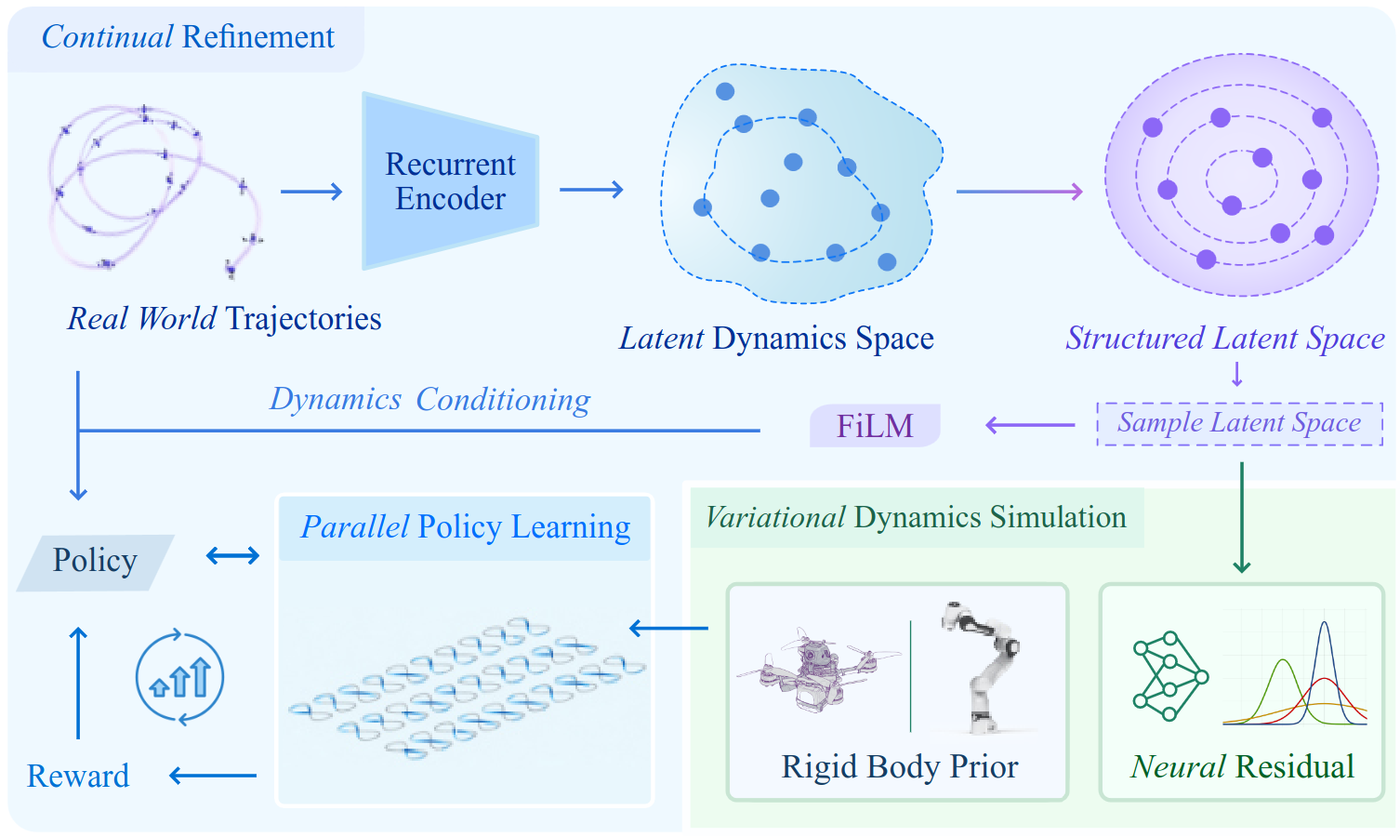
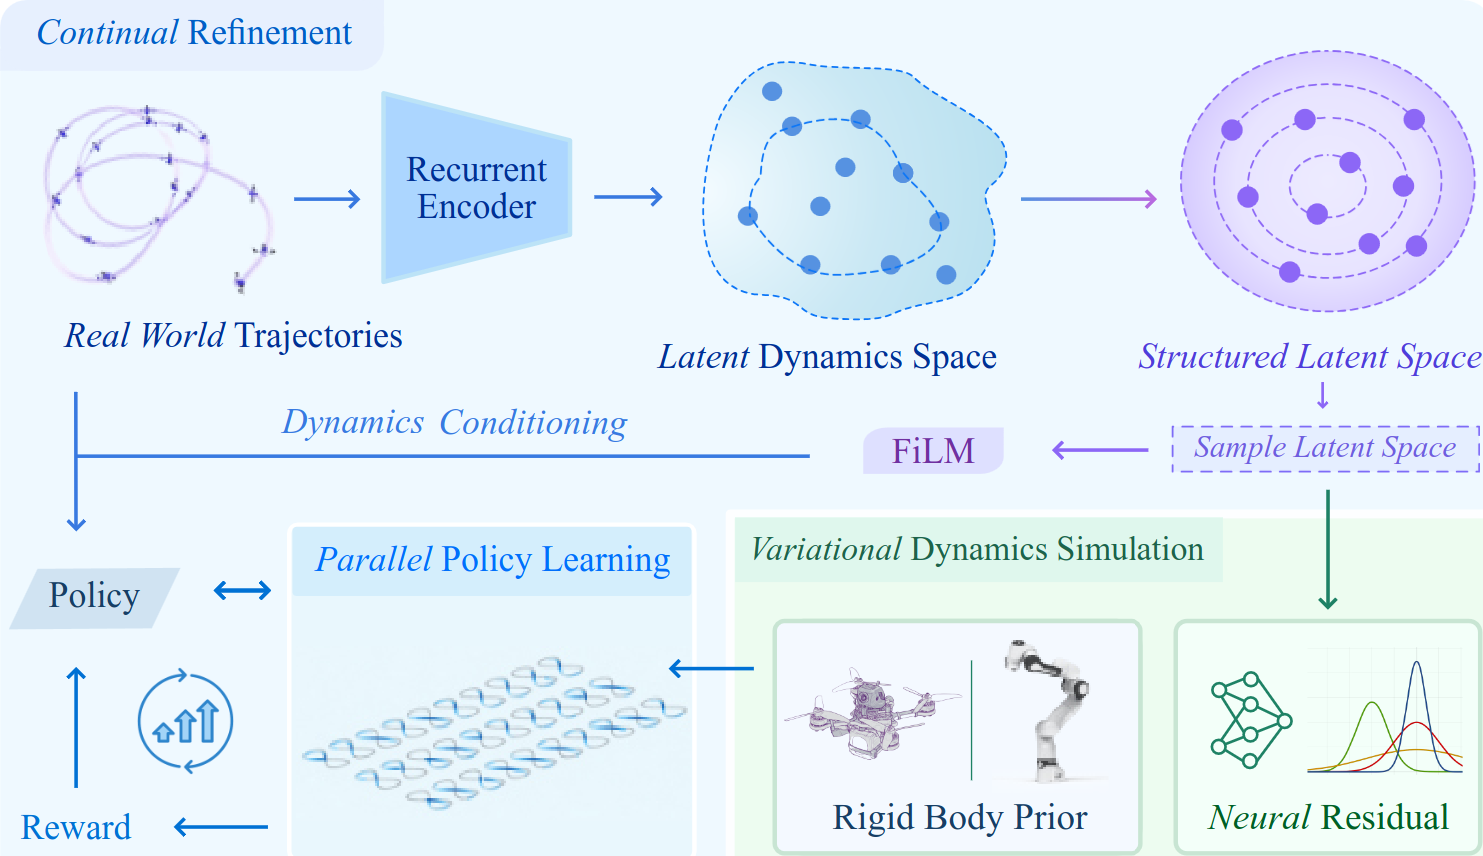
Bio wording, bold interests, trimmed figure, news links

diff --git a/index.html b/index.html
@@ -56,9 +56,10 @@
   .about p { margin: 0 0 14px; font-size: 19.5px; color: var(--ink-2); text-align: justify; hyphens: auto; -webkit-hyphens: auto; text-wrap: pretty; }
   .about p a { color: var(--gold); }
   .about p a:hover { text-decoration: underline; text-underline-offset: 3px; }
+  .about p b { font-weight: 600; color: var(--ink); }
 
   .pcard { background: var(--card); border: 1px solid var(--line); border-radius: 14px; padding: 16px 20px 16px 16px; margin-bottom: 12px; cursor: pointer; transition: transform .15s, box-shadow .15s, border-color .15s; display: grid; grid-template-columns: 212px 1fr; gap: 20px; align-items: start; }
-  .pcard .thumb { aspect-ratio: 16 / 10; border-radius: 10px; overflow: hidden; background: #fff; border: 1px solid var(--line); }
+  .pcard .thumb { aspect-ratio: 7 / 4; border-radius: 10px; overflow: hidden; background: #fff; border: 1px solid var(--line); }
   .pcard .thumb img { display: block; width: 100%; height: 100%; object-fit: cover; }
   .pcard .thumb.diagram img { object-fit: contain; padding: 4%; box-sizing: border-box; }
   :root[data-theme="dark"] .pcard .thumb.diagram { background: #f4f5f7; }
@@ -83,6 +84,8 @@
   .news li:last-child { border-bottom: 1px solid var(--line); }
   .news time { color: var(--gold); font-weight: 600; font-size: 14.5px; padding-top: 2px; }
   .news em { font-style: italic; }
+  .news a { color: var(--gold); }
+  .news a:hover { text-decoration: underline; text-underline-offset: 3px; }
   .news:not(.all) li:nth-child(n+4) { display: none; }
   .morebtn { margin-top: 12px; font: inherit; font-size: 14px; font-weight: 600; color: var(--gold); background: none; border: 0; padding: 0; cursor: pointer; }
   .morebtn:hover { text-decoration: underline; text-underline-offset: 3px; }
@@ -183,9 +186,9 @@
     <main>
       <section id="about" class="about r" style="--d:.1s">
         <h2>About</h2>
-        <p>I am a master's student in Robotics, Systems and Control at <a href="https://ethz.ch/">ETH Zurich</a>. I work in the <a href="https://rpg.ifi.uzh.ch/">Robotics and Perception Group</a> at the University of Zurich, led by <a href="https://rpg.ifi.uzh.ch/people_scaramuzza.html">Prof. Davide Scaramuzza</a>. I&nbsp;also work with <a href="https://renyunfan.cn/">Prof. Yunfan Ren</a>.</p>
-        <p>Prior to that, I earned a B.Eng. in Automation from <a href="https://en.sjtu.edu.cn/">Shanghai Jiao Tong University</a>, working with <a href="https://sais.sjtu.edu.cn/faculty/liyuanlong.html">Prof. Yuanlong Li</a> and <a href="https://engineering.virginia.edu/faculty/zongli-lin">Prof. Zongli Lin</a> on stabilizing constrained control systems.</p>
-        <p>My research interests are robotics, robot learning, learning-based control, reinforcement learning, and control theory. I want to develop robots that learn and act reliably in the real&nbsp;world.</p>
+        <p>I am a master's student in Robotics, Systems and Control at <a href="https://ethz.ch/">ETH Zurich</a>. I work in the <a href="https://rpg.ifi.uzh.ch/">Robotics and Perception Group</a> at the University of Zurich, led by <a href="https://rpg.ifi.uzh.ch/people_scaramuzza.html">Prof. Davide Scaramuzza</a>. I&nbsp;also work closely with <a href="https://renyunfan.cn/">Prof. Yunfan Ren</a> at the ORCA Lab.</p>
+        <p>Prior to that, I obtained my B.Eng. in Automation from <a href="https://en.sjtu.edu.cn/">Shanghai Jiao Tong University</a>, working with <a href="https://sais.sjtu.edu.cn/faculty/liyuanlong.html">Prof. Yuanlong Li</a> and <a href="https://engineering.virginia.edu/faculty/zongli-lin">Prof. Zongli Lin</a> on stabilizing constrained control systems.</p>
+        <p>My research interests are <b>robotics</b>, <b>robot learning</b>, <b>learning-based control</b>, <b>reinforcement learning</b>, and <b>control theory</b>. I want to develop robots that learn and act reliably in the real&nbsp;world.</p>
       </section>
 
       <section id="publications" class="r" style="--d:.2s">
@@ -199,7 +202,7 @@
           </div>
         </article>
         <article class="pcard">
-          <div class="thumb diagram"><img src="assets/pubs/continual-diagram.png" alt="Continual refinement pipeline: real-world trajectories, recurrent encoder, structured latent dynamics space, variational dynamics simulation with a rigid-body prior and neural residual, and parallel policy learning" loading="lazy"></div>
+          <div class="thumb photo"><img src="assets/pubs/continual-diagram.png" alt="Continual refinement pipeline: real-world trajectories, recurrent encoder, structured latent dynamics space, variational dynamics simulation with a rigid-body prior and neural residual, and parallel policy learning" loading="lazy"></div>
           <div>
           <h3><a href="https://arxiv.org/abs/2606.27353">Continual Robot Policy Learning via Variational Neural Dynamics</a></h3>
           <p class="authors">Jiaxu Xing, <b>Zhiyuan Zhu</b>, Yunfan Ren, Ismail Geles, Yifan Zhai, Rudolf Reiter, Davide Scaramuzza</p>
@@ -243,13 +246,13 @@
       <section id="news">
         <h2>News</h2>
         <ul class="news" id="newslist">
-          <li><time>Jun 2026</time><span>New preprint: <em>Continual Robot Policy Learning via Variational Neural Dynamics</em> is on arXiv.</span></li>
-          <li><time>Apr 2026</time><span><em>Learning Agile Quadrotor Flight in the Real World</em> accepted to RSS 2026.</span></li>
-          <li><time>Feb 2026</time><span>Preprint: <em>Learning Agile Quadrotor Flight in the Real World</em> is on arXiv.</span></li>
+          <li><time>Jun 2026</time><span><em>Continual Robot Policy Learning via Variational Neural Dynamics</em> is on arXiv.</span></li>
+          <li><time>Apr 2026</time><span><em>Learning Agile Quadrotor Flight in the Real World</em> accepted to <a href="https://roboticsconference.org/2026/">RSS 2026</a>.</span></li>
+          <li><time>Feb 2026</time><span><em>Learning Agile Quadrotor Flight in the Real World</em> is on arXiv.</span></li>
           <li><time>Sep 2025</time><span>Joined the <a href="https://rpg.ifi.uzh.ch/">Robotics and Perception Group</a> at the University of Zurich.</span></li>
           <li><time>Sep 2024</time><span>Started the M.Sc. in Robotics, Systems and Control at ETH Zurich.</span></li>
           <li><time>Jun 2024</time><span>Received my bachelor's degree in Automation from Shanghai Jiao Tong University.</span></li>
-          <li><time>Jul 2023</time><span>Presented our paper on practical stabilization of the double integrator at the IFAC World Congress in Yokohama, Japan.</span></li>
+          <li><time>Jul 2023</time><span>Presented our paper on practical stabilization of the double integrator at the <a href="https://www.ifac2023.org/index.html">IFAC World Congress</a> in Yokohama, Japan.</span></li>
         </ul>
         <button class="morebtn" id="newsmore" type="button">Show all news</button>
       </section>
